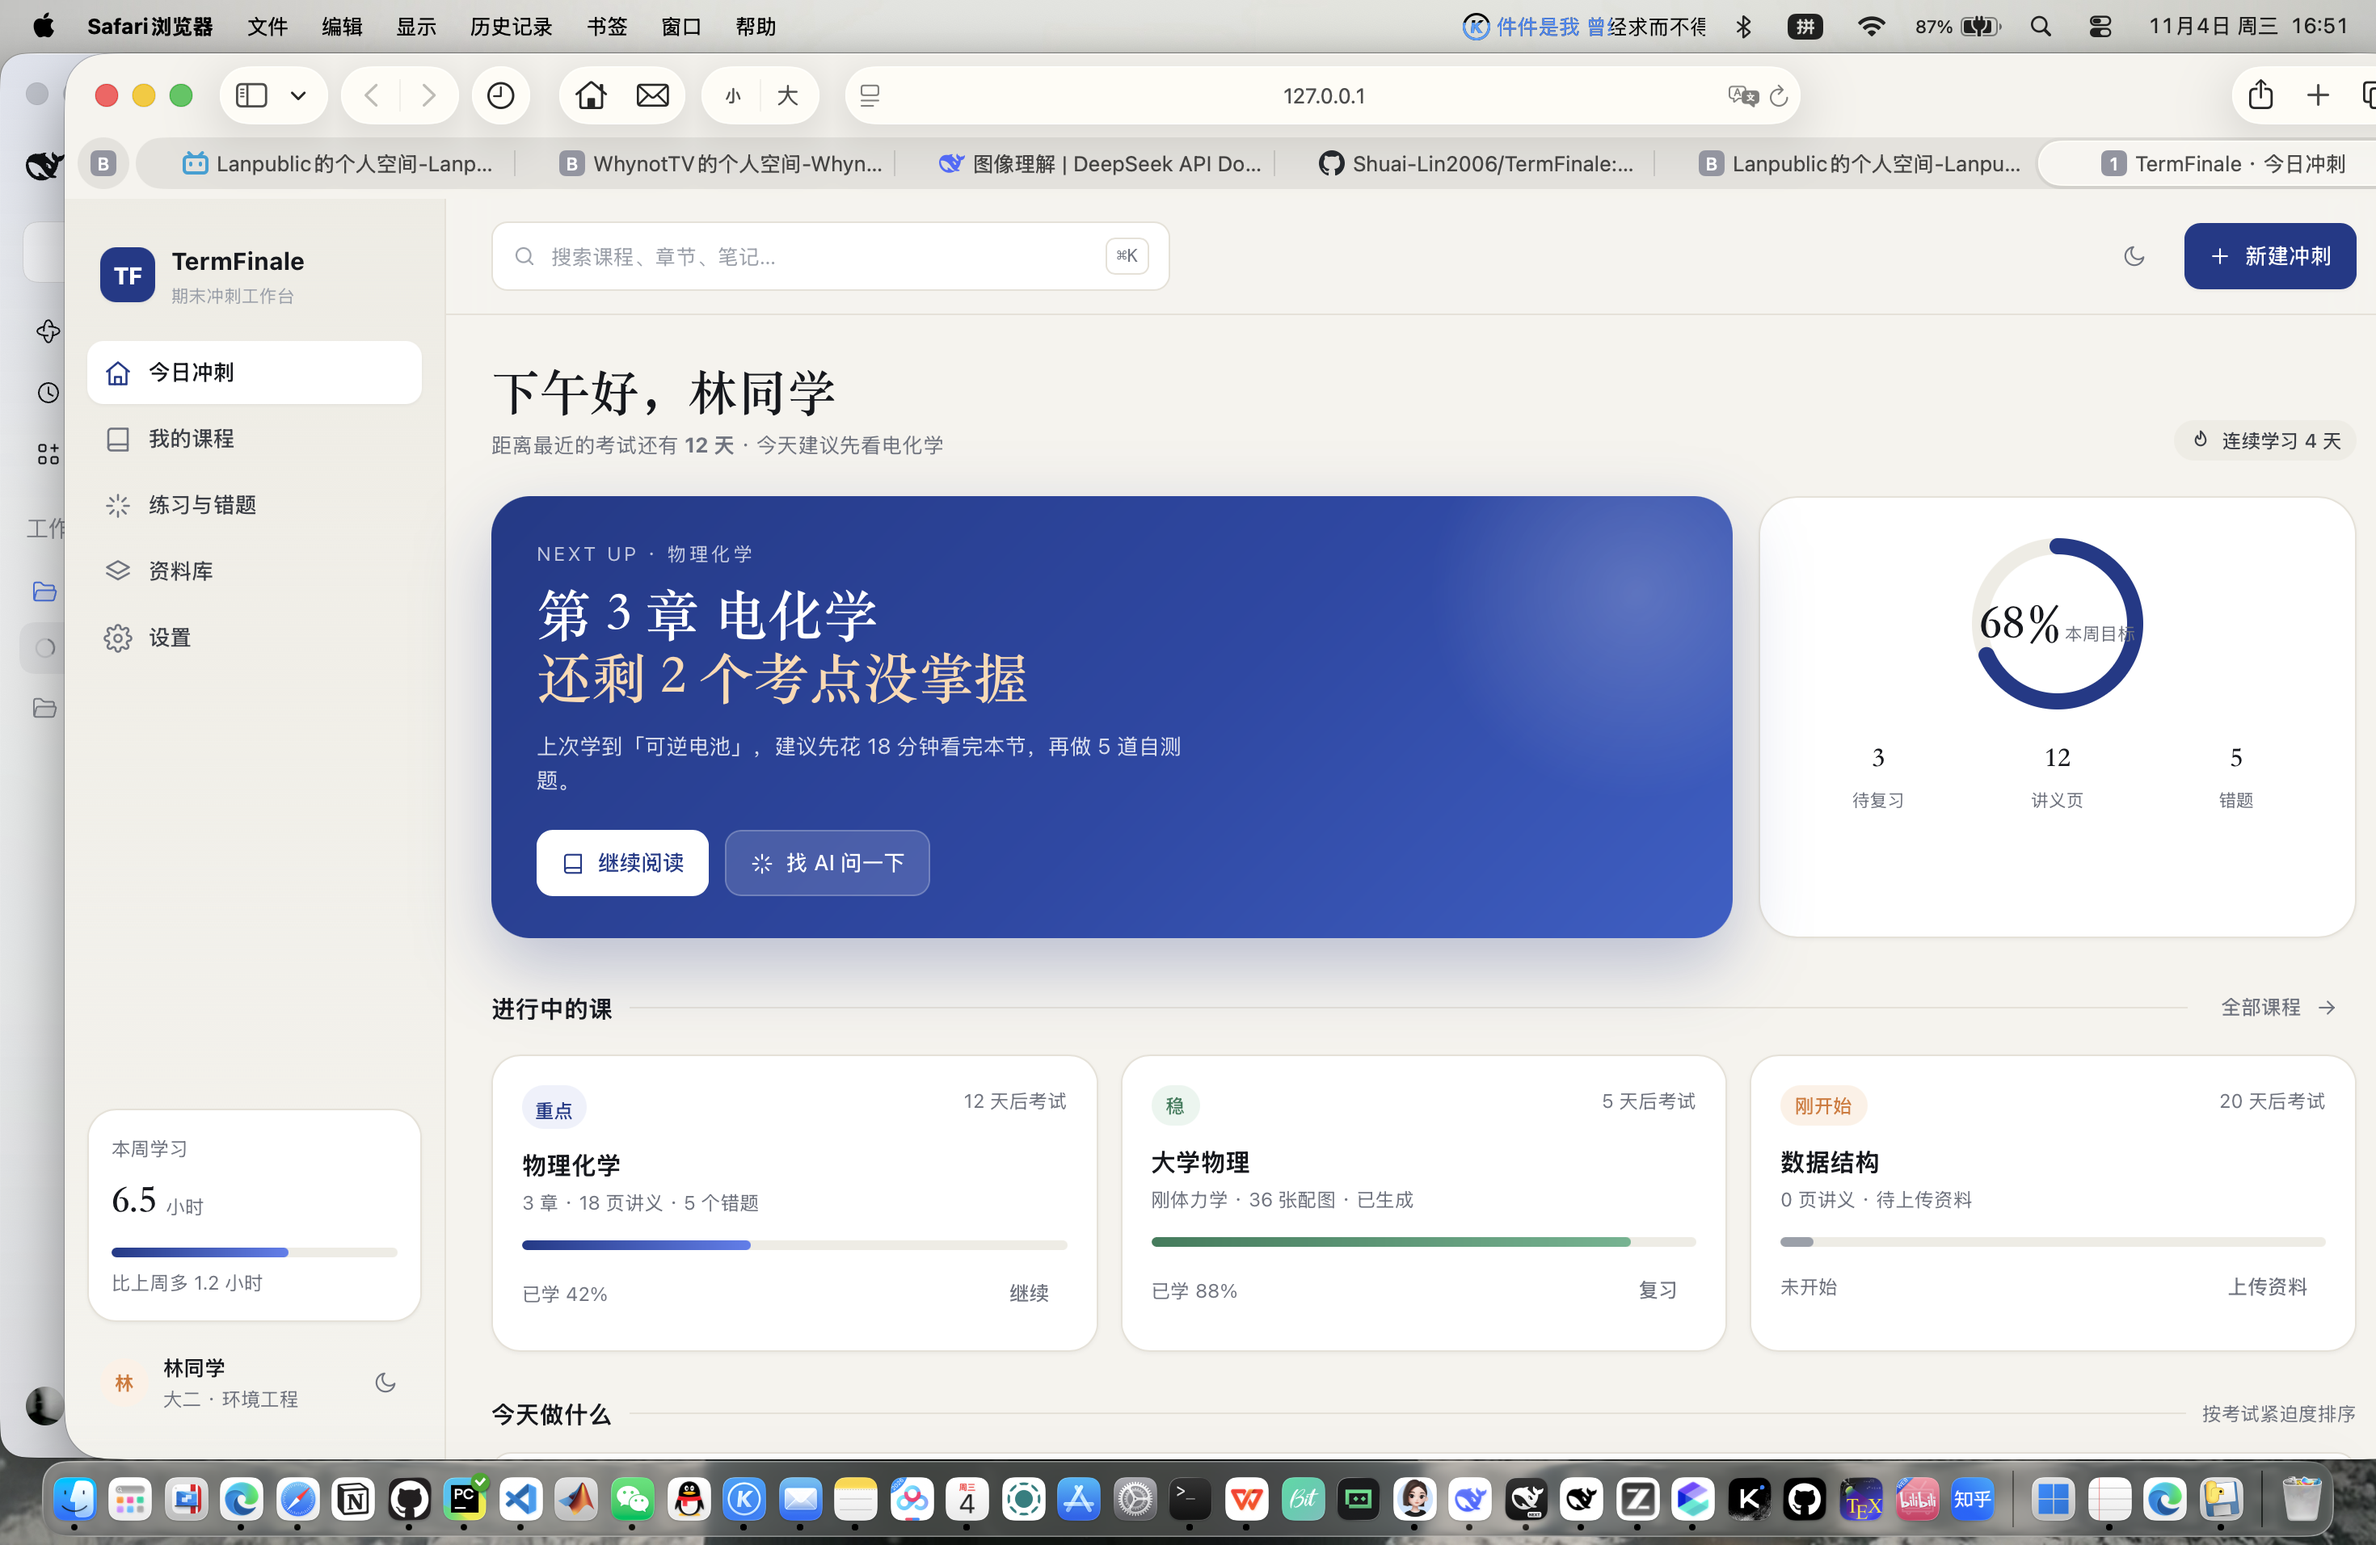
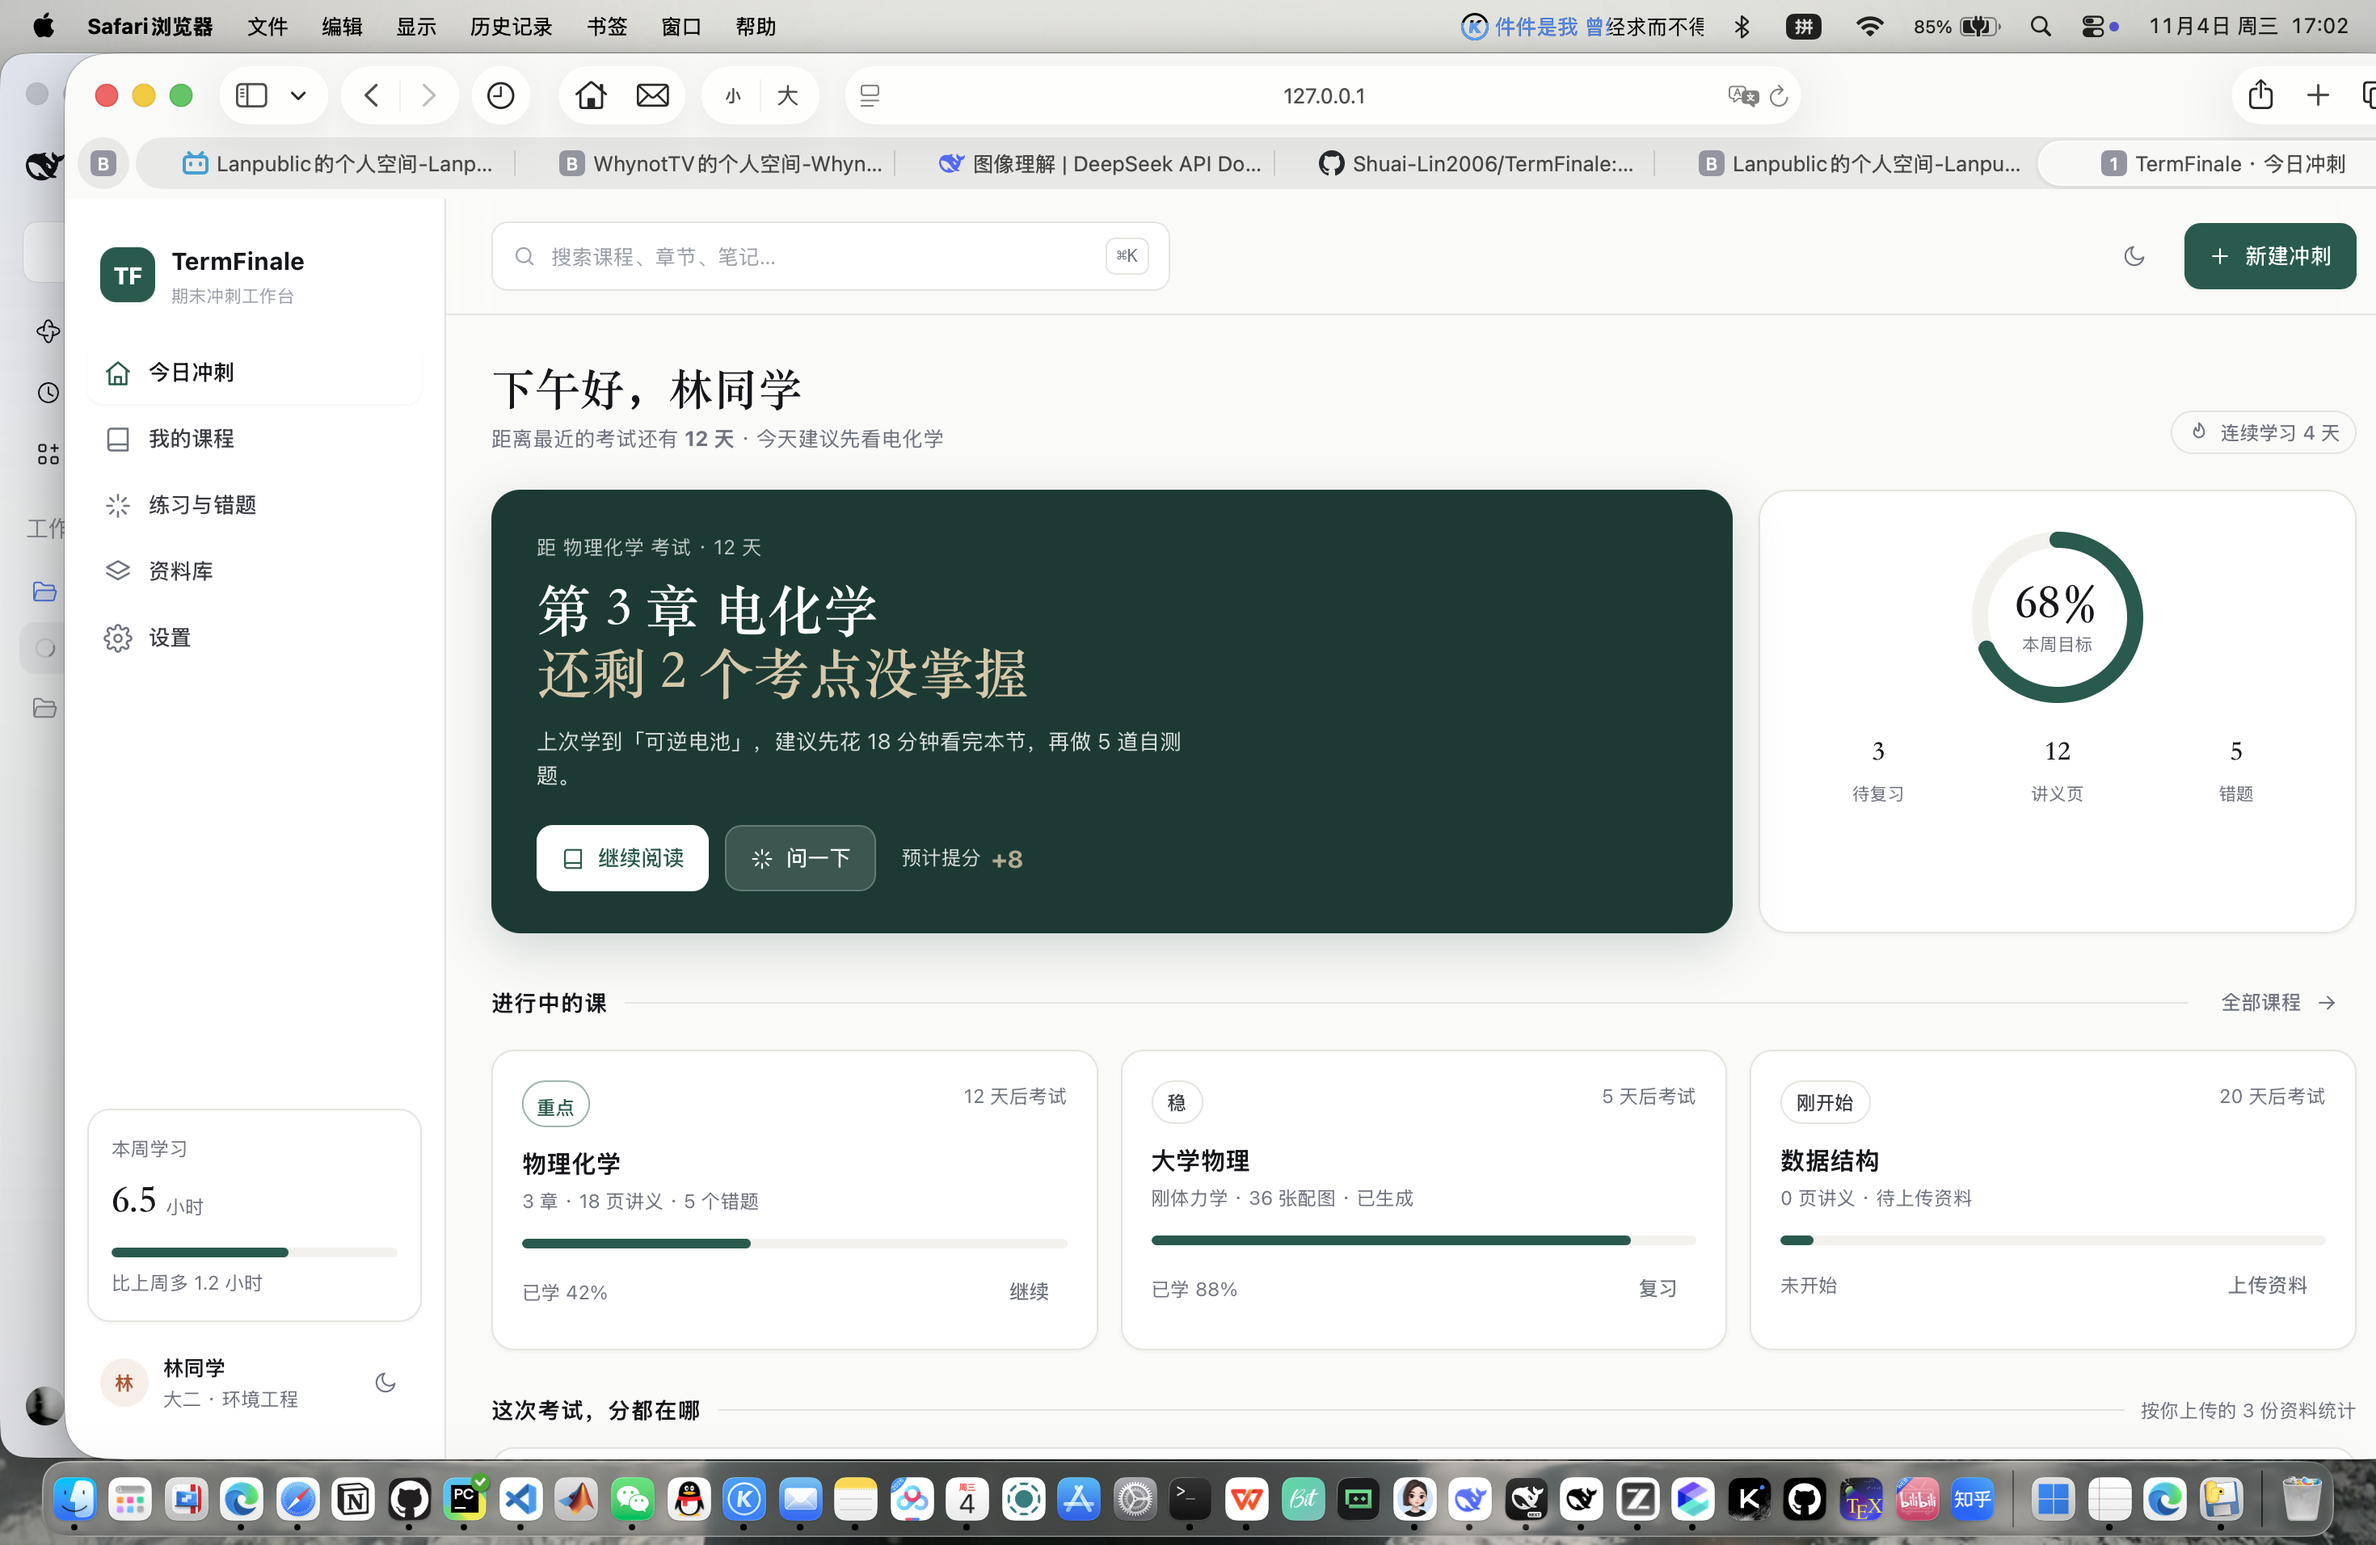
design: UI v2 — 去 AI 味、纸白底色、提分主线
- 底色 #FAFAF8（介于纯白与暖黄之间），主色改为墨绿，去掉蓝色渐变与光斑
- chip 改为中性描边，缩小圆角与阴影，弱化英文大写标签
- 首页新增『这次考试，分都在哪』分值分布 + 预计提分
- 修复进度环文字重叠、封面标签被拉宽

diff --git a/web/assets/app.css b/web/assets/app.css
@@ -1,13 +1,13 @@
 :root{
-  --paper:#f5f3ee; --paper-2:#efece4; --card:#ffffff;
-  --ink:#16181d; --ink-2:#3b3f47; --muted:#6f7480; --faint:#9aa0aa;
-  --line:#e6e1d7; --line-2:#efece5;
-  --brand:#1e3a8a; --brand-2:#2a4bb0; --brand-soft:#eef1fb;
-  --accent:#d9772f; --accent-soft:#fdf1e6;
+  --paper:#fafaf8; --paper-2:#f2f1ed; --card:#ffffff;
+  --ink:#14161a; --ink-2:#3a3d44; --muted:#6f7480; --faint:#9aa0aa;
+  --line:#e6e4de; --line-2:#efeee9;
+  --brand:#0f5b4c; --brand-2:#146c5a; --brand-soft:#eaf2ef;
+  --accent:#b4552d; --accent-soft:#f8eee8;
   --ok:#2f7d5a; --ok-soft:#eaf5ef; --warn:#a86a10; --danger:#b3261e;
-  --r-sm:8px; --r:12px; --r-lg:18px; --r-xl:24px;
+  --r-sm:7px; --r:10px; --r-lg:14px; --r-xl:18px;
   --shadow-1:0 1px 2px rgba(22,24,29,.05);
-  --shadow-2:0 2px 6px rgba(22,24,29,.06),0 12px 32px rgba(22,24,29,.07);
+  --shadow-2:0 2px 6px rgba(22,24,29,.05),0 10px 26px rgba(22,24,29,.06);
   --shadow-3:0 18px 60px rgba(22,24,29,.16);
   --sans:-apple-system,BlinkMacSystemFont,"PingFang SC","Microsoft YaHei","Segoe UI",Roboto,sans-serif;
   --serif:"Songti SC","STSong","SimSun",Georgia,"Times New Roman",serif;
@@ -70,7 +70,7 @@ button{font-family:inherit}
 .app{display:grid;grid-template-columns:236px minmax(0,1fr);min-height:100vh}
 .rail{
   position:sticky;top:0;height:100vh;padding:20px 14px;border-right:1px solid var(--line);
-  background:linear-gradient(180deg,var(--paper-2),var(--paper));display:flex;flex-direction:column;gap:18px;
+  background:var(--card);display:flex;flex-direction:column;gap:18px;
 }
 .brand{display:flex;align-items:center;gap:10px;padding:6px 8px 2px}
 .brand-mark{width:34px;height:34px;border-radius:10px;background:var(--brand);color:#fff;
@@ -102,19 +102,17 @@ button{font-family:inherit}
 
 .page{padding:28px 28px 80px;max-width:1240px;width:100%;margin:0 auto}
 .page-head{display:flex;align-items:flex-end;gap:16px;margin-bottom:22px}
-.page-title{font-family:var(--serif);font-size:30px;line-height:1.2;margin:0;letter-spacing:.5px}
+.page-title{font-family:var(--serif);font-size:27px;line-height:1.2;margin:0;letter-spacing:.5px}
 .page-sub{color:var(--muted);font-size:13px;margin-top:6px}
 
 /* ---------- 首页 ---------- */
 .hero{display:grid;grid-template-columns:1.35fr .65fr;gap:16px;margin-bottom:20px}
 .hero-main{position:relative;overflow:hidden;padding:26px 28px;border-radius:var(--r-xl);
-  background:linear-gradient(135deg,#1e3a8a 0%,#2749a8 55%,#3560c9 100%);color:#fff;
-  box-shadow:0 18px 44px rgba(30,58,138,.28)}
-.hero-main::after{content:"";position:absolute;right:-80px;top:-80px;width:280px;height:280px;
-  border-radius:50%;background:radial-gradient(circle,rgba(255,255,255,.20),transparent 65%)}
-.hero-kicker{font-size:12px;letter-spacing:.14em;text-transform:uppercase;opacity:.72}
+  background:#0e3b33;color:#fff;box-shadow:0 10px 30px rgba(14,59,51,.18)}
+.hero-main::after{display:none}
+.hero-kicker{font-size:12.5px;letter-spacing:.02em;opacity:.7}
 .hero-title{font-family:var(--serif);font-size:34px;margin:8px 0 6px;line-height:1.15}
-.hero-title b{color:#ffd9b0;font-weight:700}
+.hero-title b{color:#d9c7a6;font-weight:700}
 .hero-desc{opacity:.82;font-size:13.5px;max-width:420px}
 .hero-actions{display:flex;gap:10px;margin-top:20px}
 .hero-main .btn{background:rgba(255,255,255,.14);border-color:rgba(255,255,255,.22);color:#fff;box-shadow:none}
@@ -276,3 +274,18 @@ button{font-family:inherit}
   .topbar{padding:10px 14px;gap:8px}
   .page-title{font-size:25px}
 }
+/* ---- v2：更克制、更编辑化 ---- */
+.section-head h2{font-size:14px;letter-spacing:.04em}
+.chip{background:transparent;border:1px solid var(--line);color:var(--muted)}
+.chip.brand,.chip.ok,.chip.accent{background:transparent;border-color:var(--line);color:var(--ink-2)}
+.chip.brand{border-color:color-mix(in srgb,var(--brand) 35%,var(--line));color:var(--brand)}
+.marks{display:grid;gap:10px}
+.mark-row{display:grid;grid-template-columns:120px 1fr 48px;align-items:center;gap:12px;font-size:12.5px}
+.mark-row .track{height:6px;background:var(--paper-2);border-radius:99px;overflow:hidden}
+.mark-row .track i{display:block;height:100%;background:var(--brand)}
+.mark-row b{text-align:right;font-weight:600;color:var(--ink-2)}
+.note{font-size:12px;color:var(--faint);line-height:1.7}
+.ring-num b{display:block;line-height:1}
+.ring-num span{display:block;margin-top:2px}
+.bar i{background:var(--brand)!important}
+.doc-cover .chip{display:inline-flex;width:fit-content;background:var(--brand-soft);border-color:transparent;color:var(--brand)}

diff --git a/web/dashboard.html b/web/dashboard.html
@@ -83,12 +83,15 @@
 
       <section class="hero">
         <div class="hero-main">
-          <div class="hero-kicker">Next up · 物理化学</div>
+          <div class="hero-kicker">距 物理化学 考试 · 12 天</div>
           <h2 class="hero-title">第 3 章 电化学<br><b>还剩 2 个考点没掌握</b></h2>
           <p class="hero-desc">上次学到「可逆电池」，建议先花 18 分钟看完本节，再做 5 道自测题。</p>
           <div class="hero-actions">
             <a class="btn solid" href="reader.html"><svg class="icon sm"><use href="#i-book"/></svg>继续阅读</a>
-            <a class="btn" href="reader.html"><svg class="icon sm"><use href="#i-spark"/></svg>找 AI 问一下</a>
+            <a class="btn" href="reader.html"><svg class="icon sm"><use href="#i-spark"/></svg>问一下</a>
+            <span style="display:inline-flex;align-items:center;gap:6px;margin-left:6px;font-size:12.5px;opacity:.8">
+              预计提分 <b style="font-size:15px;color:#d9c7a6">+8</b>
+            </span>
           </div>
         </div>
         <div class="hero-side card">
@@ -121,7 +124,7 @@
           <div class="course-top"><span class="chip ok">稳</span><span class="tiny muted">5 天后考试</span></div>
           <h3>大学物理</h3>
           <div class="meta">刚体力学 · 36 张配图 · 已生成</div>
-          <div class="bar"><i style="width:88%;background:linear-gradient(90deg,var(--ok),#63b58f)"></i></div>
+          <div class="bar"><i style="width:88%"></i></div>
           <div class="course-foot"><span>已学 88%</span><a class="btn ghost sm" href="reader.html">复习</a></div>
         </article>
         <article class="card hover course">
@@ -131,6 +134,19 @@
           <div class="bar"><i style="width:6%;background:var(--faint)"></i></div>
           <div class="course-foot"><span>未开始</span><button class="btn ghost sm">上传资料</button></div>
         </article>
+      </section>
+
+
+      <div class="section-head"><h2>这次考试，分都在哪</h2><div class="line"></div><span class="tiny muted">按你上传的 3 份资料统计</span></div>
+      <section class="card" style="padding:18px 20px">
+        <div class="marks">
+          <div class="mark-row"><span>电化学</span><div class="track"><i style="width:35%"></i></div><b>35%</b></div>
+          <div class="mark-row"><span>热力学</span><div class="track"><i style="width:25%"></i></div><b>25%</b></div>
+          <div class="mark-row"><span>化学动力学</span><div class="track"><i style="width:20%"></i></div><b>20%</b></div>
+          <div class="mark-row"><span>统计热力学</span><div class="track"><i style="width:12%"></i></div><b>12%</b></div>
+          <div class="mark-row"><span>其他</span><div class="track"><i style="width:8%"></i></div><b>8%</b></div>
+        </div>
+        <p class="note" style="margin:12px 0 0">优先攻「电化学 + 热力学」= 60% 的分值；你现在电化学掌握度 3/5，把这章补完预计能多拿 8 分。</p>
       </section>
 
       <div class="section-head"><h2>今天做什么</h2><div class="line"></div><span class="tiny muted">按考试紧迫度排序</span></div>
